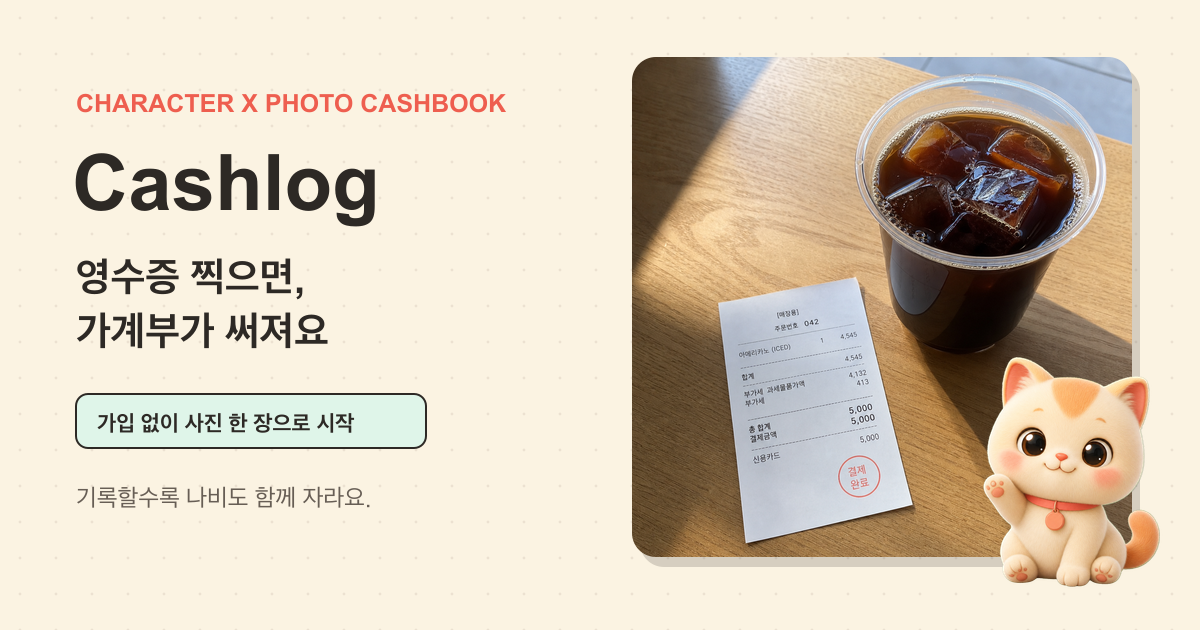
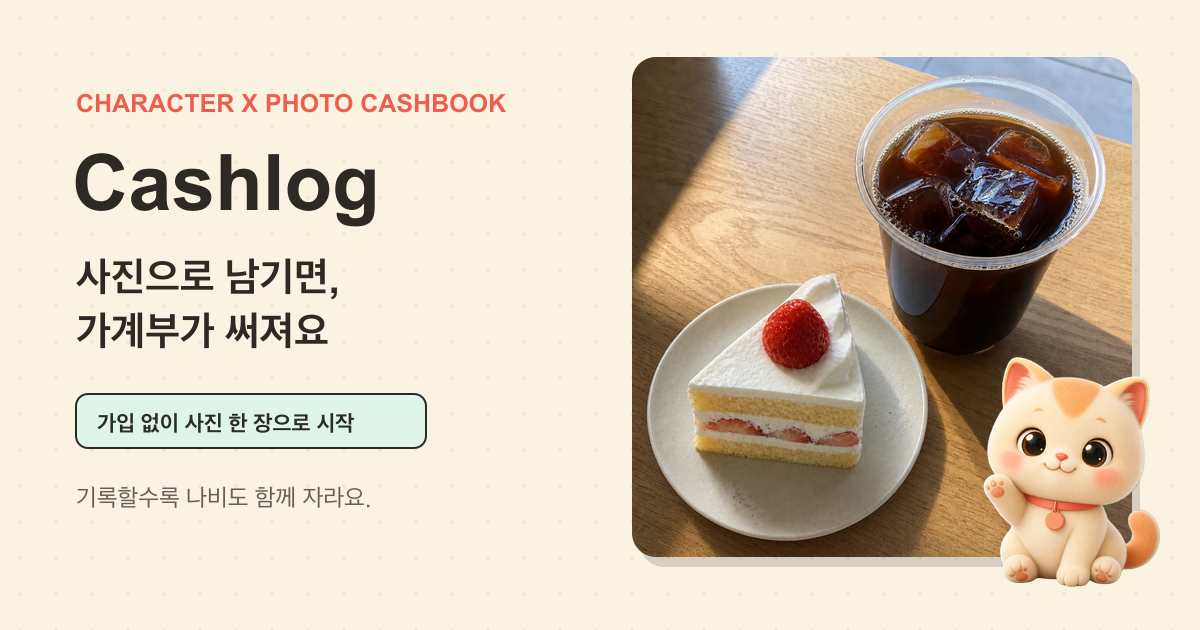
fix: position recording around photos

diff --git a/src/App.tsx b/src/App.tsx
@@ -2052,7 +2052,7 @@ function CashlogApp() {
           {isFirstSession ? (
             <section className="first-session-intro" aria-labelledby="first-session-title">
               <p className="eyebrow">가계부 쓰다 포기한 사람을 위한 가계부</p>
-              <h1 id="first-session-title">영수증 찍으면,<br />가계부가 써져요</h1>
+              <h1 id="first-session-title">사진으로 남기면,<br />가계부가 써져요</h1>
               <p className="first-session-copy">
                 금액과 카테고리는 먼저 정리하고, <strong>{selectedPetName}</strong>는 기록할수록 함께 자라요.
               </p>
@@ -2114,7 +2114,7 @@ function CashlogApp() {
               isFirstSession ? (
                 <div className="timeline-empty-moment first-session-demo" aria-label="사진 기록 결과 예시">
                   <div className="timeline-empty-photo">
-                    <img src="/cafe-receipt-moment.png" alt="아이스 아메리카노와 영수증 기록 예시" />
+                    <img src="/cafe-moment.webp" alt="아이스 아메리카노와 디저트 소비 사진 기록 예시" />
                     <span><Camera size={14} aria-hidden /> 찍기 전</span>
                   </div>
                   <div className="demo-result">
@@ -2155,12 +2155,12 @@ function CashlogApp() {
           </div>
 
           <div className="capture-dock" aria-label="빠른 기록">
-            <button type="button" className="capture-primary" data-analytics-action="record.camera.primary" onClick={openPhotoCapture} aria-label={isFirstSession ? '가입 없이 3초 만에 영수증 기록하기' : '카메라로 영수증 기록하기'}>
+            <button type="button" className="capture-primary" data-analytics-action="record.camera.primary" onClick={openPhotoCapture} aria-label={isFirstSession ? '가입 없이 3초 만에 사진으로 기록하기' : '카메라로 사진 기록하기'}>
               <span className="camera-shutter" aria-hidden>
                 <Camera size={31} strokeWidth={2.2} />
               </span>
               <span className="capture-primary-copy">
-                <strong>{isFirstSession ? '가입 없이 3초 만에 기록' : '영수증 찍어 기록'}</strong>
+                <strong>{isFirstSession ? '가입 없이 3초 만에 기록' : '사진으로 기록'}</strong>
                 <small>{isFirstSession ? '사진 한 장이면 바로 시작해요' : '금액과 카테고리를 먼저 정리해요'}</small>
               </span>
             </button>

diff --git a/src/ai/mockAnalyzePhoto.ts b/src/ai/mockAnalyzePhoto.ts
@@ -11,12 +11,12 @@ export const mockAnalyzePhoto = async (file: File): Promise<PhotoAnalysis> => {
       suggestedTitle: '이동 기록',
       suggestedMemo: '사진 속 이동 내역을 대중교통으로 분류했어요.',
       confidence: 0.82,
-      rawText: '교통 영수증 14,200원',
+      rawText: '대중교통 이동 14,200원',
       engine: 'mock',
       model: 'cashlog-local-heuristic',
-      ocrText: '교통 영수증 14,200원',
-      detectedObjects: ['교통 영수증', '이동 내역'],
-      categoryReason: '파일명과 영수증 단서가 대중교통 지출에 가까워요.',
+      ocrText: '대중교통 이동 14,200원',
+      detectedObjects: ['대중교통', '이동 내역'],
+      categoryReason: '파일명과 이동 단서가 대중교통 지출에 가까워요.',
     }
   }
 
@@ -27,11 +27,11 @@ export const mockAnalyzePhoto = async (file: File): Promise<PhotoAnalysis> => {
       suggestedTitle: '이동 기록',
       suggestedMemo: '사진 속 이동 내역을 택시·주차·유류로 분류했어요.',
       confidence: 0.82,
-      rawText: '교통 영수증 14,200원',
+      rawText: '택시 이동 14,200원',
       engine: 'mock',
       model: 'cashlog-local-heuristic',
-      ocrText: '교통 영수증 14,200원',
-      detectedObjects: ['택시', '교통 영수증'],
+      ocrText: '택시 이동 14,200원',
+      detectedObjects: ['택시', '차량 이동'],
       categoryReason: '택시/차량 이동 단서가 있어 교통·차량 지출로 분류했어요.',
     }
   }
@@ -56,13 +56,13 @@ export const mockAnalyzePhoto = async (file: File): Promise<PhotoAnalysis> => {
     suggestedAmount: 5200,
     suggestedCategory: 'meal_cafe',
     suggestedTitle: '오늘의 카페 기록',
-    suggestedMemo: '사진에서 카페 영수증처럼 보이는 기록을 발견했어요.',
+    suggestedMemo: '사진에서 카페와 음료 단서를 발견했어요.',
     confidence: 0.88,
-    rawText: '카페 영수증 5,200원',
+    rawText: '카페 음료 5,200원',
     engine: 'mock',
     model: 'cashlog-local-heuristic',
-    ocrText: '카페 영수증 5,200원',
-    detectedObjects: ['컵', '카페 영수증', '디저트'],
+    ocrText: '카페 음료 5,200원',
+    detectedObjects: ['컵', '카페', '디저트'],
     categoryReason: '카페와 음료 단서가 가장 강해 카페·디저트로 추천했어요.',
   }
 }

diff --git a/index.html b/index.html
@@ -20,15 +20,15 @@
     <meta property="og:locale" content="ko_KR" />
     <meta property="og:site_name" content="Cashlog" />
     <meta property="og:title" content="Cashlog | 캐릭터와 함께 쓰는 사진 가계부" />
-    <meta property="og:description" content="영수증 한 장이면 금액과 카테고리를 정리하고, 기록할수록 나비가 함께 자라요." />
+    <meta property="og:description" content="소비 순간을 사진으로 남기면 금액과 카테고리를 정리하고, 기록할수록 나비가 함께 자라요." />
     <meta property="og:url" content="https://cashlog.ai.kr/" />
     <meta property="og:image" content="https://cashlog.ai.kr/og-cashlog.png" />
     <meta property="og:image:width" content="1200" />
     <meta property="og:image:height" content="630" />
-    <meta property="og:image:alt" content="영수증 사진으로 기록하고 캐릭터와 함께 자라는 Cashlog" />
+    <meta property="og:image:alt" content="일상의 소비 사진으로 기록하고 캐릭터와 함께 자라는 Cashlog" />
     <meta name="twitter:card" content="summary_large_image" />
     <meta name="twitter:title" content="Cashlog | 캐릭터와 함께 쓰는 사진 가계부" />
-    <meta name="twitter:description" content="가입 없이 영수증을 찍고, 나비와 함께 소비 기록을 이어가요." />
+    <meta name="twitter:description" content="가입 없이 사진 한 장으로, 나비와 함께 소비 기록을 이어가요." />
     <meta name="twitter:image" content="https://cashlog.ai.kr/og-cashlog.png" />
     <link rel="preconnect" href="https://fonts.googleapis.com" />
     <link rel="preconnect" href="https://fonts.gstatic.com" crossorigin />
@@ -43,7 +43,7 @@
     <noscript>
       <main>
         <h1>Cashlog</h1>
-        <p>영수증 사진 한 장으로 금액과 카테고리를 정리하고, 캐릭터와 함께 하루와 한 달의 소비 이야기를 기록하는 가계부입니다.</p>
+        <p>소비 사진 한 장으로 금액과 카테고리를 정리하고, 캐릭터와 함께 하루와 한 달의 소비 이야기를 기록하는 가계부입니다.</p>
       </main>
     </noscript>
     <script type="module" src="/src/main.tsx"></script>

diff --git a/src/App.test.tsx b/src/App.test.tsx
@@ -29,7 +29,7 @@ describe('Cashlog photo MVP', () => {
 
     expect(screen.getByRole('button', { name: /하루 스토리/i })).toBeDisabled()
     expect(screen.getByText('선택한 날짜에 기록을 하나 남기면 하루 스토리가 열려요.')).toBeInTheDocument()
-    expect(screen.getByRole('heading', { name: /영수증 찍으면/ })).toBeInTheDocument()
+    expect(screen.getByRole('heading', { name: /사진으로 남기면/ })).toBeInTheDocument()
     expect(screen.queryByText('총 지출 0원')).not.toBeInTheDocument()
     expect(screen.getByText('로그인')).toBeInTheDocument()
   })
@@ -257,7 +257,7 @@ describe('Cashlog photo MVP', () => {
     const user = userEvent.setup()
     render(<App />)
 
-    await user.click(screen.getByRole('button', { name: '가입 없이 3초 만에 영수증 기록하기' }))
+    await user.click(screen.getByRole('button', { name: '가입 없이 3초 만에 사진으로 기록하기' }))
 
     expect(screen.getByRole('heading', { name: '사진으로 기록' })).toBeInTheDocument()
     expect(screen.getByRole('button', { name: '카메라 촬영' })).toBeInTheDocument()
@@ -279,7 +279,7 @@ describe('Cashlog photo MVP', () => {
     })
     render(<App />)
 
-    await user.click(screen.getByRole('button', { name: '가입 없이 3초 만에 영수증 기록하기' }))
+    await user.click(screen.getByRole('button', { name: '가입 없이 3초 만에 사진으로 기록하기' }))
 
     expect(await screen.findByRole('heading', { name: '장면 촬영' })).toBeInTheDocument()
     expect(document.querySelector('.add-sheet')).toHaveClass('is-camera-live')

diff --git a/api/analyze.ts b/api/analyze.ts
@@ -1,6 +1,6 @@
 /**
  * Vercel Serverless — compact Vision/OCR analyzer
- * 영수증·결제 화면·사진/영상 포스터 프레임 → 지출 추천 JSON
+ * 소비 사진·영수증·결제 화면·영상 포스터 프레임 → 지출 추천 JSON
  *
  * 클라이언트는 여기로 base64만 보냄. API 키는 Vercel 환경변수 OPENAI_API_KEY.
  *
@@ -147,8 +147,8 @@ async function visionToAnalysis(
   const { apiBase, model, engine } = modelConfig
 
   const leafList = ALLOWED_LEAF_IDS.join(', ')
-  const system = `당신은 한국 가계부 앱 Cashlog 의 영수증 분석기입니다.
-이미지에서 총 지출 금액(숫자)과 가장 맞는 지출 카테고리를 추론합니다.
+  const system = `당신은 한국 가계부 앱 Cashlog 의 소비 사진 분석기입니다.
+사진 속 피사체·장소·텍스트·결제 정보를 바탕으로 총 지출 금액(숫자)과 가장 맞는 지출 카테고리를 추론합니다.
 반드시 JSON 한 객체만 출력하세요. 코드펜스·설명 금지.
 
 필수 키:

diff --git a/reservation.html b/reservation.html
@@ -20,7 +20,7 @@
         </nav>
 
         <div class="moment-photo" aria-hidden="true">
-          <img src="/cafe-receipt-moment.png" alt="" />
+          <img src="/cafe-moment.webp" alt="" />
           <span>7월 14일 · 카페 5,000원</span>
         </div>
         <img class="reservation-pet" src="/pets/cat-3d.png" alt="Cashlog 고양이 나비" />

diff --git a/README.md b/README.md
@@ -1,12 +1,12 @@
 # Cashlog
 
 사진 한 장으로 지출을 남기고, 하루를 일기처럼 요약하는 **사진 기반 웹 가계부** MVP입니다.  
-기본은 **mock 분석**(파일명 휴리스틱)이고, 선택 시 **서버 연동 Vision(OpenAI)** 으로 실제 영수증 분석이 가능합니다.
+기본은 **mock 분석**(파일명 휴리스틱)이고, 선택 시 **서버 연동 Vision(OpenAI)** 으로 실제 소비 사진 분석이 가능합니다.
 
 ## 주요 기능
 
 - **월 캘린더**: 날짜별 지출 합계, 사진 로그 여부 표시
-- **사진 우선 기록**: 가입 없이 영수증을 촬영하고, 앨범 선택이나 직접 입력은 보조 경로로 제공
+- **사진 우선 기록**: 가입 없이 소비 순간을 촬영하고, 앨범 선택이나 직접 입력은 보조 경로로 제공
 - **사진·영상 흐름**: 사진 또는 영상으로 기록. 영상은 첫 장면(포스터)을 잡아 **mock 또는 Vision API** 가 금액·카테고리·제목·메모를 제안 (수정 후 저장)
 - **상품 사진 카테고리 추천 구조**: B안 문서 기준 `/api/analyze-image` → 상품 item 탐지 결과 → 카테고리 추천 → 사용자 수정 피드백 저장
 - **펫 놀이터**: 기록을 남길수록 고양이·강아지가 함께 레벨업, 레벨에 따라 코디(옷) 해금·갈아입히기
@@ -31,7 +31,7 @@
 2. **프론트**: `VITE_PHOTO_ANALYSIS_MODE=remote` — 기본 호출 주소는 `현재 도메인/api/analyze` 입니다.
    - 상품 사진 B안 파이프라인은 `VITE_IMAGE_ANALYSIS_PIPELINE=product` 와 `/api/analyze-image` 를 사용합니다.
 3. **로컬 상품 사진 분석**: FastAPI 모델 서버(8010)와 `npm run dev`(Vite)를 함께 실행합니다. Vite 설정이 `/api/analyze-image`를 FastAPI로 프록시합니다.
-   - 기존 receipt 분석은 `vercel dev`(API, 보통 포트 3000)와 `npm run dev`를 함께 실행합니다. Vite 설정이 나머지 `/api`를 3000으로 프록시합니다.
+   - 기존 JSON 사진 분석은 `vercel dev`(API, 보통 포트 3000)와 `npm run dev`를 함께 실행합니다. Vite 설정이 나머지 `/api`를 3000으로 프록시합니다.
 4. **Vercel**: 프로젝트 환경 변수에 **`OPENAI_API_KEY`** 추가. `OPENAI_VISION_MODEL` 은 생략 시 `gpt-4o-mini` .
 
 서버 처리 코드: [`api/analyze.ts`](api/analyze.ts) — 카테고리 소분류 id 는 `cashlog.ts` 와 목록 동기화가 필요합니다.

diff --git a/design-qa.md b/design-qa.md
@@ -22,7 +22,7 @@
 - Fonts and typography: Gaegu is used for the handwritten display voice and Gowun Dodum for supporting copy. Body labels remain at readable mobile sizes with zero negative letter spacing.
 - Spacing and layout rhythm: no horizontal overflow (`scrollWidth: 390`). The primary camera action and bottom navigation remain visible together at 390 x 844. Empty-state height exceeds the viewport by only 7 px and does not hide a primary control.
 - Colors and visual tokens: existing paper, ink, coral, mint, and yellow tokens match the source. Contrast remains strong around buttons and form fields.
-- Image quality and asset fidelity: the generated cafe-and-receipt photo is sharp and appropriately cropped; the existing transparent 3D pet asset has no visible halo. Lucide supplies all new UI icons.
+- Image quality and asset fidelity: the generated cafe-moment photo is sharp and appropriately cropped; the existing transparent 3D pet asset has no visible halo. Lucide supplies all new UI icons.
 - Copy and content: Korean microcopy is concise, camera-first, and keeps developer configuration language out of the user surface.
 
 **Interaction Verification**
